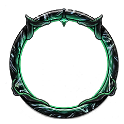
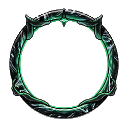
기본 테두리 3종의 배경 찌꺼기 제거(테두리 밖은 완전 투명), 전시 칸 바탕 제거
Claude-Session: https://claude.ai/code/session_01DURwo2uBEwukpQLRAcFitq

diff --git a/js/admin.js b/js/admin.js
@@ -117,7 +117,7 @@
       '<label>약점 코드<select id="adm-rd-w"><option value="">선택</option>' + opt(CYC, wk, (x) => ELN[x]) + '</select></label><label>유효 사거리<select id="adm-rd-r"><option value="">선택</option>' + opt(Object.keys(RNGN), sn.r || '', (x) => RNGN[x]) + '</select></label>' +
       '<label class="w">보스 배경 이미지 (세로가 긴 그림 권장 · 게임 배경과 니슬렁 표지에 함께 쓰임)<input type="file" id="adm-rd-file" accept="image/*"></label></div>' +
       '<div class="adm-act"><button type="button" class="adm-b" data-act="rdsave">저장</button>' + (R.img || bossNew ? '<button type="button" class="adm-b g" data-act="rdimg0">기본 배경으로</button>' : '') + (sv ? '<button type="button" class="adm-b r" data-act="rdoff" style="margin-left:auto">시즌 닫기</button>' : '') + '<span id="adm-rd-msg" class="adm-msg"></span></div></div></div>' +
-      '<h3 style="margin-top:18px">테두리 보상 <small>시즌이 끝나면 순위에 따라 지급 · 전초기지 프로필에서 착용</small></h3><div class="adm-frs">' + [1, 2, 3].map((t) => { const cur = (FR[sn.id] || {})[t], src = frNew[t] ? frNew[t].url : cur ? img(cur) : 'assets/img/raid-frame-' + t + '.png', pf = window.doroPickup ? window.doroPickup().img : '';
+      '<h3 style="margin-top:18px">테두리 보상 <small>시즌이 끝나면 순위에 따라 지급 · 전초기지 프로필에서 착용</small></h3><div class="adm-frs">' + [1, 2, 3].map((t) => { const cur = (FR[sn.id] || {})[t], src = frNew[t] ? frNew[t].url : cur ? img(cur) : 'assets/img/raid-frame-' + t + '.png?v=2', pf = window.doroPickup ? window.doroPickup().img : '';
         return '<div class="adm-fr"><b>' + ['상위 3%', '상위 10%', '상위 30%'][t - 1] + '</b><div class="adm-frp"><img alt="" src="' + esc(pf) + '"><img class="ff" alt="" data-frp="' + t + '" src="' + esc(src) + '"></div><span class="tg">' + (frNew[t] ? '새 테두리 (저장 전)' : cur ? '이 시즌 전용 테두리' : '기본 테두리') + '</span><input type="file" accept="image/*" data-frt="' + t + '">' + (frNew[t] || cur ? '<button type="button" class="adm-b g sm" data-act="frdel" data-t="' + t + '">기본으로</button>' : '') + '</div>'; }).join('') + '</div>' +
       '<p class="adm-note">게임 안 테두리 그림(흰 바탕)을 올리면 흰 바탕과 가운데 빈 곳을 자동으로 지우고 테두리만 남깁니다. 위 미리보기가 실제로 보이는 모습입니다. 올리지 않은 등급은 기본 테두리가 지급됩니다. 테두리는 위의 시즌 ID에 묶여 저장됩니다.</p>' +
       '<p class="adm-note">같은 시즌 ID로 저장하면 일정·약점만 고쳐지고 순위는 그대로입니다. 시즌 ID를 바꿔 저장하면 새 시즌이 시작되어 순위가 새로 쌓이고, 직전 시즌 순위로 프로필 테두리가 지급됩니다. 니슬렁 표지의 카운트다운은 이 일정을 따릅니다(시작 전: 다음 시즌까지 · 진행 중: 이번 시즌 종료까지 · 그 외: 다음 시즌을 기대해주세요). 약점 코드로 편성하면 우월코드 보너스를 받습니다.</p></div>';

diff --git a/index.html b/index.html
@@ -18,7 +18,7 @@
 <link rel="preconnect" href="https://fonts.googleapis.com">
 <link rel="preconnect" href="https://fonts.gstatic.com" crossorigin>
 <link href="https://fonts.googleapis.com/css2?family=Noto+Sans+KR:wght@400;500;700&family=Jua&family=Aldrich&display=swap" rel="stylesheet" media="print" onload="this.media='all'"><noscript><link href="https://fonts.googleapis.com/css2?family=Noto+Sans+KR:wght@400;500;700&family=Jua&family=Aldrich&display=swap" rel="stylesheet"></noscript>
-<link rel="stylesheet" href="css/main.css?v=20261117n">
+<link rel="stylesheet" href="css/main.css?v=20261117o">
 
 <script defer src="https://cdnjs.cloudflare.com/ajax/libs/html2canvas/1.4.1/html2canvas.min.js"></script>
 
@@ -462,7 +462,7 @@
 <div id="img-ov" class="ov" hidden><div class="ov-in"><p class="muted" id="img-msg"></p><img id="img-out" alt="계산기 캡처"><div><button class="ghost sm" id="img-close" type="button">닫기</button></div></div></div>
 
 
-<script src="js/app.js?v=20261117n"></script>
+<script src="js/app.js?v=20261117o"></script>
 <script data-goatcounter="https://levelinfinikke.goatcounter.com/count" async src="//gc.zgo.at/count.js"></script>
 
 <script>
@@ -567,14 +567,14 @@ window.addEventListener('scroll',function(){tip.classList.remove('on');},{passiv
   setH();
 })();
 </script>
-<script src="js/gm-assets.js?v=20261117n"></script>
+<script src="js/gm-assets.js?v=20261117o"></script>
 
-<script type="module" src="js/account.js?v=20261117n"></script>
-<script src="js/admin.js?v=20261117n" defer></script>
-<script src="js/raid.js?v=20261117n" defer></script>
-<script src="js/pack.js?v=20261117n" defer></script>
-<script src="js/plinko.js?v=20261117n" defer></script>
-<script src="js/tabs.js?v=20261117n" defer></script>
-<script src="js/g2048.js?v=20261117n" defer></script>
+<script type="module" src="js/account.js?v=20261117o"></script>
+<script src="js/admin.js?v=20261117o" defer></script>
+<script src="js/raid.js?v=20261117o" defer></script>
+<script src="js/pack.js?v=20261117o" defer></script>
+<script src="js/plinko.js?v=20261117o" defer></script>
+<script src="js/tabs.js?v=20261117o" defer></script>
+<script src="js/g2048.js?v=20261117o" defer></script>
 </body>
 </html>

diff --git a/css/main.css b/css/main.css
@@ -1926,7 +1926,7 @@ button:not(.tr-clr):not(.tabs button):not(.tr-f):not(.pk-t):not(.pk-r){border-ra
 
 /* 테두리 전시: 통합 기록 칸 오른쪽 위 */
 #tab-me .mekpis .kpi.chipk.dexk .frshow{position:absolute;right:16px;top:10px;z-index:2;display:flex;gap:8px}
-#tab-me .frshow button{width:62px;height:62px;padding:0;border-radius:50%;border:0;background:rgba(255,255,255,.35);cursor:pointer;display:grid;place-items:center;transition:transform .15s}
+#tab-me .frshow button{width:62px;height:62px;padding:0;border-radius:50%;border:0;background:none;cursor:pointer;display:grid;place-items:center;transition:transform .15s}
 #tab-me .frshow button:hover:not(:disabled){transform:scale(1.08)}#tab-me .frshow button img{width:118%;height:118%;object-fit:contain;display:block;pointer-events:none}
 #tab-me .frshow button.e{border:2px dashed rgba(140,100,10,.4);background:transparent;color:rgba(140,100,10,.7);font-size:22px;font-weight:700}#tab-me .frshow button.e:disabled{cursor:default;opacity:.6}
 @media(max-width:1300px){#tab-me .mekpis .kpi.chipk.dexk .frshow{position:static;margin:0 0 8px}#tab-me .frshow button{width:54px;height:54px}}
